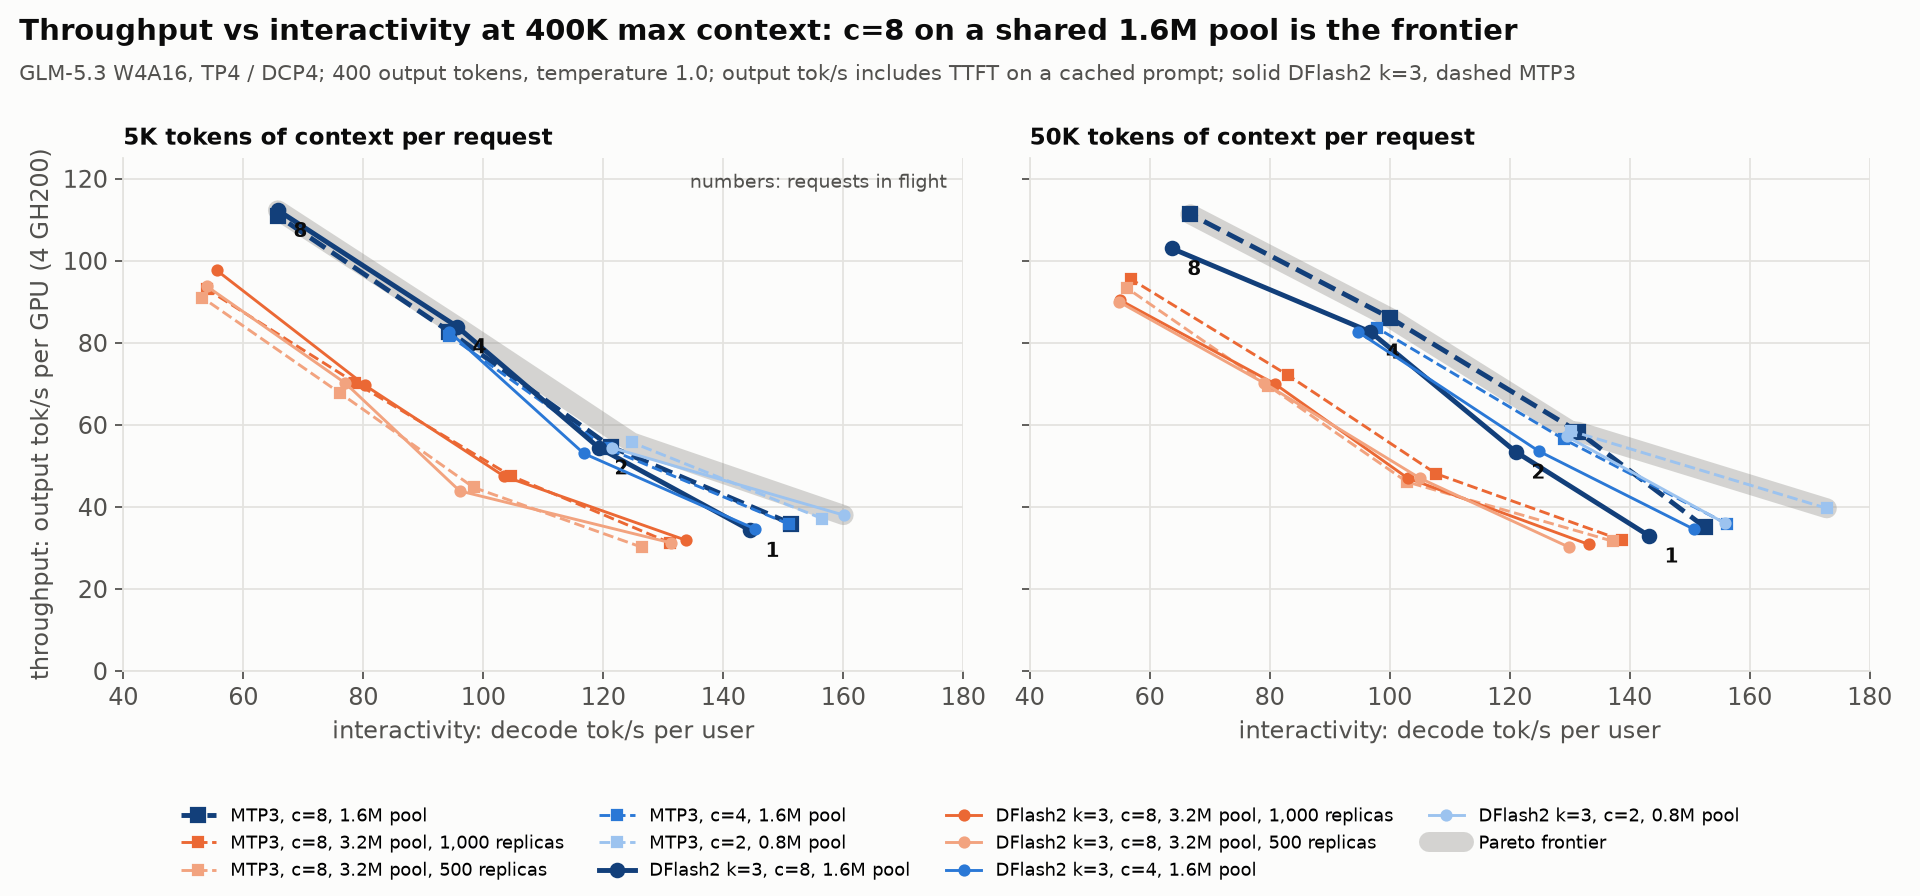
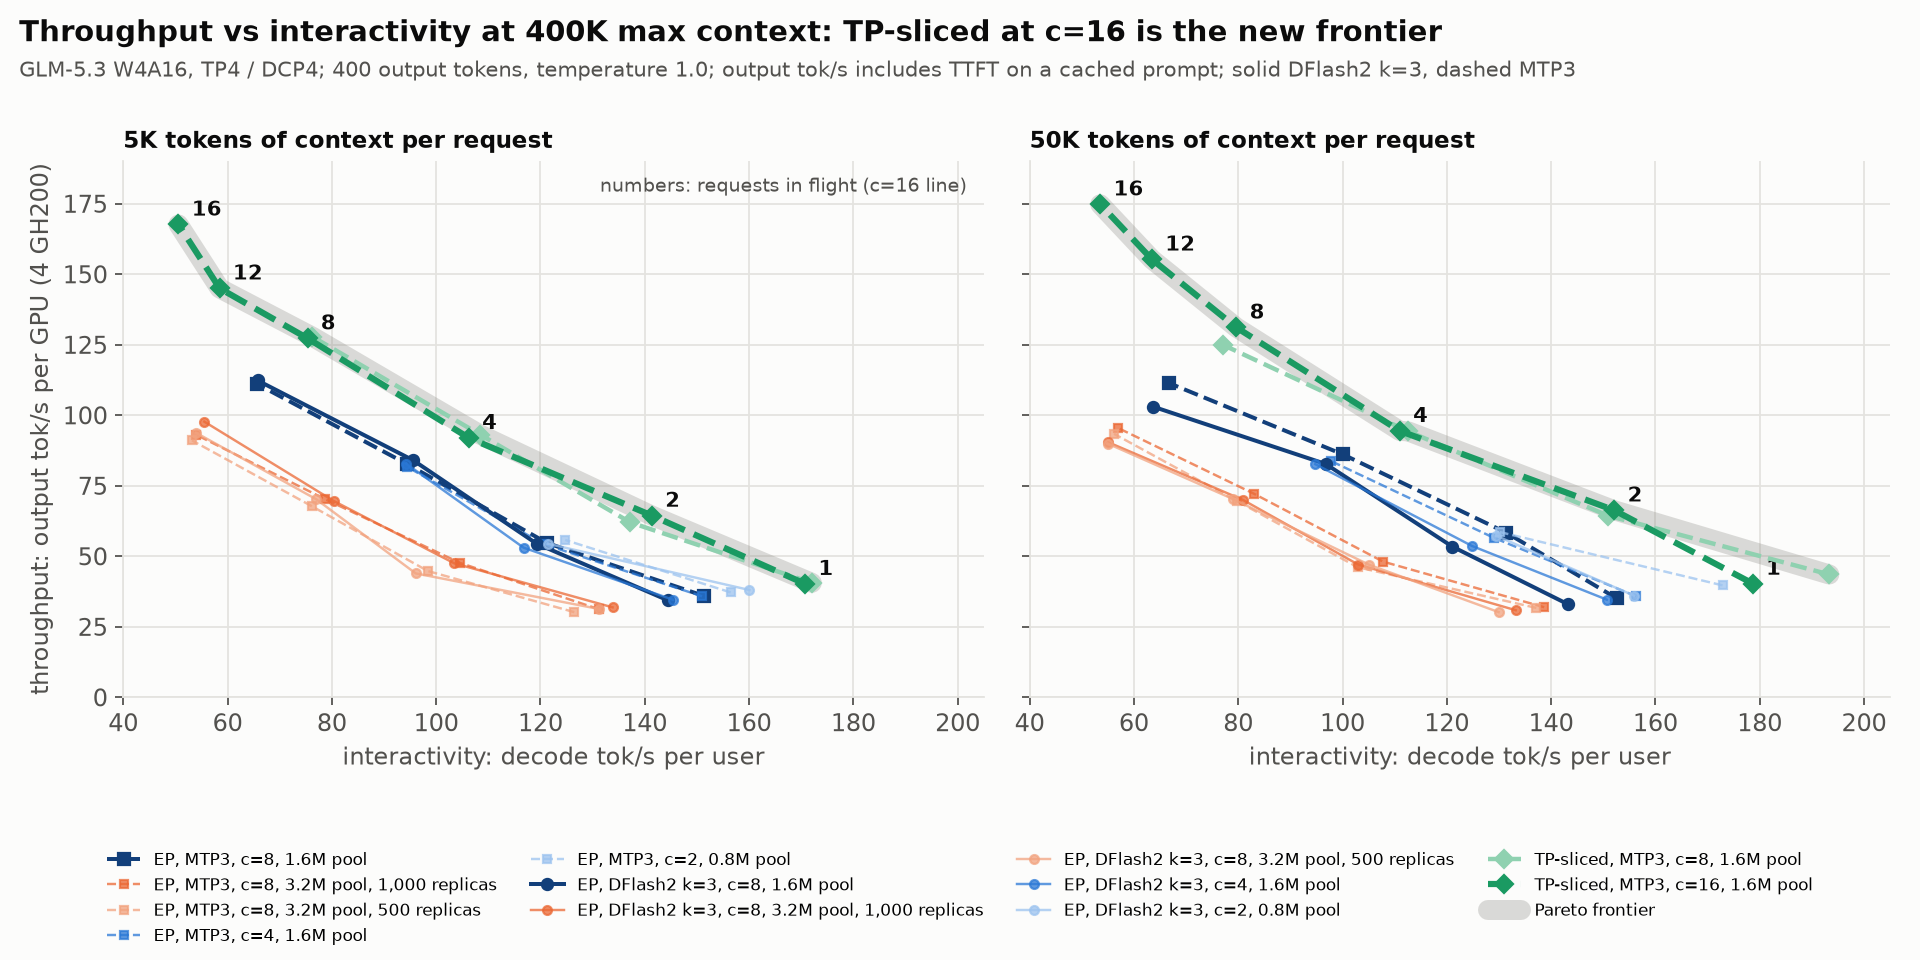
GLM: TP-sliced MoE, 16 requests, what offloading costs
Claude-Session: https://claude.ai/code/session_01LNroM82coRpqoyBf9WF9ZV

diff --git a/glm/README.md b/glm/README.md
@@ -467,9 +467,20 @@ request):
 
 ![throughput per GPU vs interactivity](figs/glm-concurrency.png)
 
-Each curve is one server config, its points 1, 2, 4 and 8 requests in flight;
-up and to the right is better. The c=8 server on the 1.6M pool traces the
-frontier: the smaller servers add nothing it cannot do at the same load.
+Each curve is one server config, its points the number of requests in flight;
+up and to the right is better. Among the EP servers, c=8 on the 1.6M pool is
+the best at every load. The green lines are the TP-sliced MoE
+([section 12](#12-every-gpu-gets-a-quarter-of-every-expert-tp-sliced-moe)):
+higher at every load, and the c=16 server keeps going to ~685 tok/s.
+
+TP-sliced, MTP3, same pool (tok/s per request / total, 5K and 50K averaged):
+
+| config | hot / GPU* | 1 | 2 | 4 | 8 | 12 | 16 |
+| --- | ---: | ---: | ---: | ---: | ---: | ---: | ---: |
+| c=8 | 3,404 | 183 / 168 | 144 / 253 | 111 / 375 | 77 / 506 | | |
+| **c=16** | 3,382 | 175 / 161 | 147 / 261 | 109 / 373 | 78 / 517 | 61 / 601 | **53 / 685** |
+
+\*In whole experts; TP-sliced stores quarter-expert slices (13,614 and 13,528).
 
 - **The KV pool no longer has to be c x 400K.** The planner used to provision
   max_num_seqs full-length sequences, so c=8 meant a 3.2M-token pool: ~320
@@ -527,6 +538,71 @@ So DFlash2 is somewhat specialised rather than broken: on coding traffic its
 cheaper drafting makes up for ~4% lower acceptance; on general text MTP3
 should be ahead.
 
+## 12. Every GPU gets a quarter of every expert (TP-sliced MoE)
+
+So far each GPU owned whole experts (expert parallel, EP). A step then waits
+for whichever GPU drew the busiest experts, and we kept ~2,000 extra copies of
+popular experts on Grace just to even that out. TP-sliced flips it: every GPU
+holds a quarter of every expert, so all four do the same work every step and
+no copies are needed. One kernel reads the hot quarters from HBM and the cold
+ones straight from Grace over C2C, at the same time.
+
+- **11-13% faster at every load** with 1-8 requests (8 servers per layout,
+  same nodes): the step drops by 2.6 ms with one request and 5 ms with eight.
+  Same math, same acceptance.
+- **16 requests now fit.** The decode paths take 64 tokens a step (16 x 4).
+  At 16 in flight a server gives **~685 tok/s (~170 per GPU), +35% over 8**,
+  and each request still gets 50-54 tok/s. The extra slots cost only 86 hot
+  slices (0.6%), so the server is as fast as the c=8 one at light load.
+- One bug on the way: above 40 tokens the kernel very rarely returned
+  garbage, because a buffer in shared memory could be refilled while some
+  warps were still reading it. One fence instruction fixes it, at no cost.
+
+### What offloading costs
+
+All experts can't fit in HBM (that would take ~95 GB per GPU), so about 30%
+of each layer's experts live on Grace. How much faster would decode be if they
+all fit? We timed the MoE kernel on the same work twice, once as served and
+once with every expert in HBM, and applied the difference to the profiles of
+the real runs.
+
+![offloaded vs all experts in HBM](figs/glm-offload.png)
+
+| requests in flight | 1 | 4 | 8 | 16 |
+| --- | ---: | ---: | ---: | ---: |
+| expert bytes read from Grace | 9% | 11% | 13% | 17% |
+| MoE kernel vs all in HBM, ideal | -9% | -2% | +16% | +42% |
+| MoE kernel vs all in HBM, measured | -1% | +3% | +4% | +23% |
+| extra time per decode step | 0 | 0.4 ms | 0.8 ms | 5.8 ms (10%) |
+
+- **Up to 8 requests, offloading is nearly free**: at most 0.8 ms of a ~38 ms
+  step (2%). At 16 it costs ~10%.
+- **Why it doesn't win.** Say a layer needs 7 experts and 1 is on Grace. If
+  HBM were the bottleneck, the other 6 would load in 6/7 of the time and
+  the Grace one would load alongside them, so offloading would be ~14% faster.
+  But HBM isn't the bottleneck here; the SMs' math is. Unpacking the int4
+  weights and multiplying keeps each SM busy 80-90% of the time, at about
+  22 GB/s per SM, so all 132 together reach only ~2.9 of HBM's 3.6 TB/s. A
+  byte from Grace needs the same math as a byte from HBM, so the 16 SMs that
+  do the Grace experts are 16 SMs missing from the hot ones, and those get 12%
+  slower. That cancels the 12-13% fewer bytes they read. Kernel traces show
+  this directly, and giving Grace 8, 12, 24 or 32 SMs instead only makes it
+  worse.
+
+  | 8 requests (32 tokens) | time |
+  | --- | ---: |
+  | 108 hot experts, 132 SMs | 207 us |
+  | 125 hot experts, 132 SMs (everything in HBM) | 233 us |
+  | 108 hot on 116 SMs + 17 cold on 16 SMs (as served) | 242 us |
+
+- **At 16 requests**, 17% of the bytes come from Grace, the link runs at 91% of
+  its peak, and Grace sets the pace.
+- **The EP kernels could overlap for free** (section 1) because vLLM's Marlin
+  left room on every SM, and the cold kernel ran in it. Our kernel already
+  fills that room with the math, so going back to two kernels
+  on two streams wouldn't help. Offloading starts to pay only once the kernel
+  is fast enough to be held back by HBM itself.
+
 ## What's left
 
 ![where the step goes now](figs/glm-step-now.png)
@@ -574,3 +650,6 @@ Raw data, scripts and every run are in the worklog:
   the served A/B, the concurrency sweep and its figures (`plot_m32.py`).
 - `experiments/2026-10-09-ood-accept`: section 11: prompts, per-request
   acceptance and per-position counters, the figure (`plot_ood.py`).
+- `experiments/2026-10-09-tp-sliced-experts`: section 12 and the TP-sliced
+  lines in section 10: the kernel, its tests and reviews, the served A/Bs, the
+  c=16 runs, the offload analysis and the figures (`plot_writeup.py`).

diff --git a/README.md b/README.md
@@ -329,5 +329,6 @@ Each experiment folder holds its scripts, raw results and a README.
 | routing capture and the hot set (GLM, MiMo) | [2026-07-26-claude-routing-capture](https://github.com/alint77/jupiter-glm52-vllm-worklog/tree/main/experiments/2026-07-26-claude-routing-capture), [2026-09-26-mimo-routing-profile](https://github.com/alint77/jupiter-glm52-vllm-worklog/tree/main/experiments/2026-09-26-mimo-routing-profile) |
 | copies of busy cold experts | [2026-07-31-replicated-expert-scheduling](https://github.com/alint77/jupiter-glm52-vllm-worklog/tree/main/experiments/2026-07-31-replicated-expert-scheduling), [2026-09-05-decode-placement-replicas](https://github.com/alint77/jupiter-glm52-vllm-worklog/tree/main/experiments/2026-09-05-decode-placement-replicas), [2026-09-26-mimo-routing-profile](https://github.com/alint77/jupiter-glm52-vllm-worklog/tree/main/experiments/2026-09-26-mimo-routing-profile) |
 | one kernel for both tiers, balancing by time, the sampler | [2026-09-27-dak-tiered-moe-kernel](https://github.com/alint77/jupiter-glm52-vllm-worklog/tree/main/experiments/2026-09-27-dak-tiered-moe-kernel) |
+| TP-sliced MoE (a quarter of every expert per GPU), 16 requests, what offloading costs | [2026-10-09-tp-sliced-experts](https://github.com/alint77/jupiter-glm52-vllm-worklog/tree/main/experiments/2026-10-09-tp-sliced-experts) |
 | MiMo serving config and decode profiles | [2026-09-22-mimo-v26-pro](https://github.com/alint77/jupiter-glm52-vllm-worklog/tree/main/experiments/2026-09-22-mimo-v26-pro), [2026-09-26-mimo-decode-profile](https://github.com/alint77/jupiter-glm52-vllm-worklog/tree/main/experiments/2026-09-26-mimo-decode-profile) |
 | prefill cold-expert staging | [2026-09-05-cold-prefetch](https://github.com/alint77/jupiter-glm52-vllm-worklog/tree/main/experiments/2026-09-05-cold-prefetch) |
